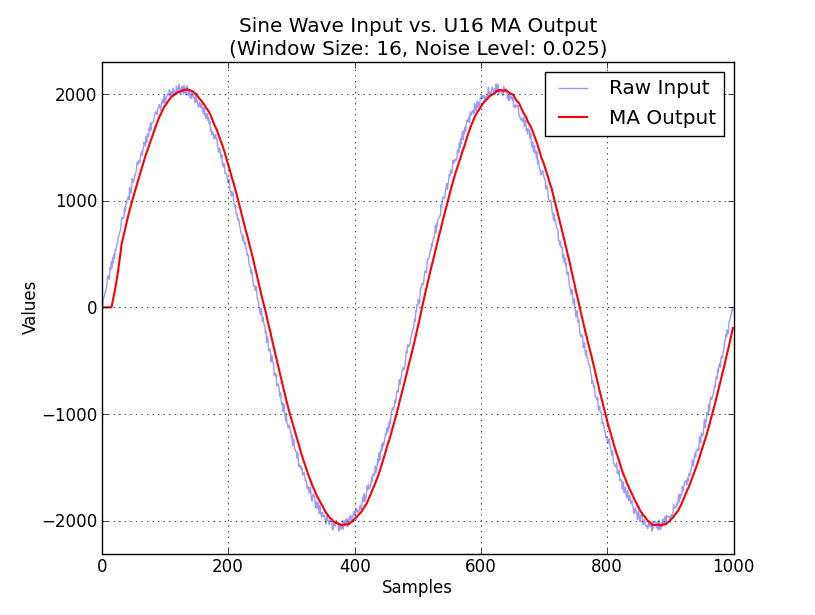
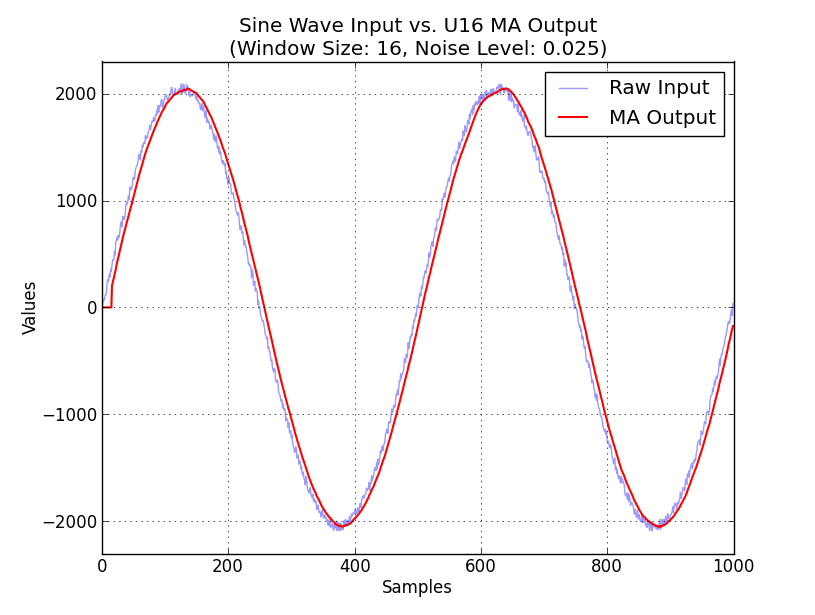
Fixed setup time in python

diff --git a/src/drivers/filters/ma/python/ma_u16_noisysine_test.py b/src/drivers/filters/ma/python/ma_u16_noisysine_test.py
@@ -85,7 +85,7 @@ def main():
         current+=1
         # Make sure we've reached 'windowlength' samples in the buffer
         if (current <= windowsize):
-            window.append(0)
+            window.append(noisysine[current-1])
             mavals.append(0)
         else:
             # Add the current sample to the 'window' ring buffer
